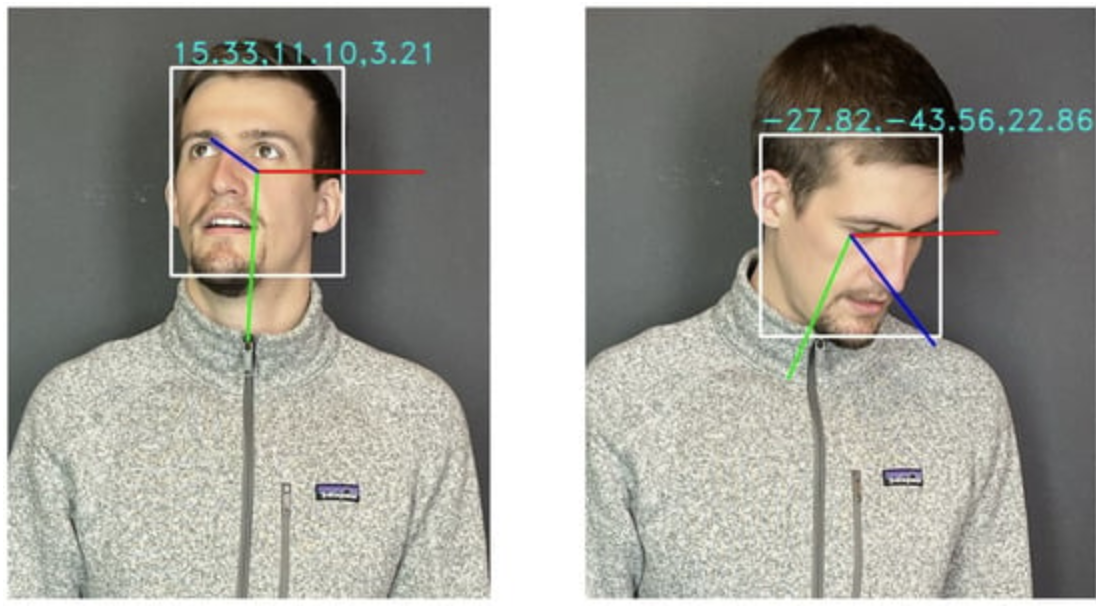
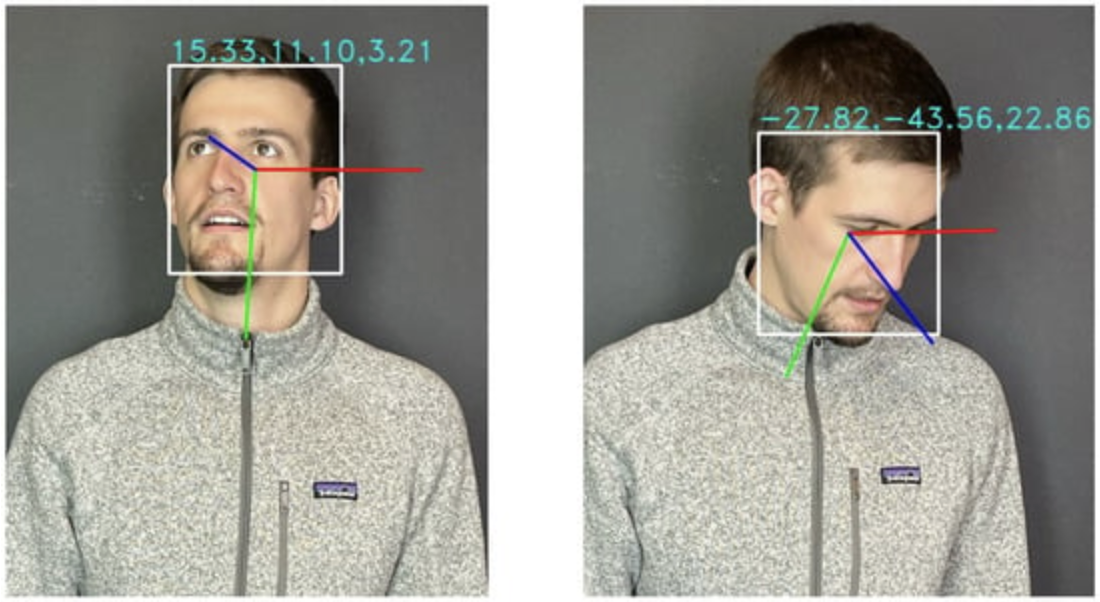
resize

diff --git a/_posts/2023-04-04-bonding-with-bots-hri.md b/_posts/2023-04-04-bonding-with-bots-hri.md
@@ -28,7 +28,7 @@ Advances in natural language processing (NLP) enable robots to comprehend and pr
 
 <br>
 
-In addition to understanding human speech, mastering the subtle art of non-verbal conversation is essential for robots to collaborate effectively with humans. Non-verbal cues, such as gestures and body language, play a crucial role in our human communications. Andrea Bonarini's article, "Communication in Human-Robot Interaction," published in Current Robotics Reports 2020, highlights the diverse dimensions of human-robot communication, emphasizing that interactions are not confined to verbal language alone[^4]. This encompasses all relevant aspects of communication, utilizing the full range of sensory channels, including hearing, sight, and touch. The report emphasizes the need for both human and robotic agents to process the signals detected along these multi-modal channels to make informed decisions on how to behave and act when interacting with one another.
+In addition to understanding human speech, mastering the subtle art of non-verbal conversation is essential for robots to collaborate effectively with humans. Non-verbal cues, such as gestures and body language, play a crucial role in our human communications. Andrea Bonarini's article, "Communication in Human-Robot Interaction," published in Current Robotics Reports 2020, highlights the diverse dimensions of human-robot communication, emphasizing that interactions are not confined to verbal language alone[^4]. This encompasses all relevant aspects of communication, utilizing the full range of sensory channels, including hearing, sight, and touch. The report emphasizes the need for both human and robotic agents to process the signals detected along these multi-modal channels to make informed decisions on how to behave when interacting with one another.
 
 <br>
 
@@ -40,7 +40,7 @@ Researchers from Germany’s Otto-von-Guericke University Magdeburg have impleme
 
 <br>
 
-![HeadPose]({{ site.url }}/img/Post7/headpose.png)
+![HeadPose]({{ site.url }}/img/Post7/headpose.png){:height="45%" width="45%"}
 Figure 1. Head pose detection used in RoSA attention module
 
 <br>
@@ -71,7 +71,7 @@ An early example of a successful commercial social robot is the Sega Toys iDog[^
 
 <br>
 
-![iDog]({{ site.url }}/img/Post7/idog.png)
+![iDog]({{ site.url }}/img/Post7/idog.png){:height="45%" width="45%"}
 Figure 2. Sega Toys iDog
 
 <br>
